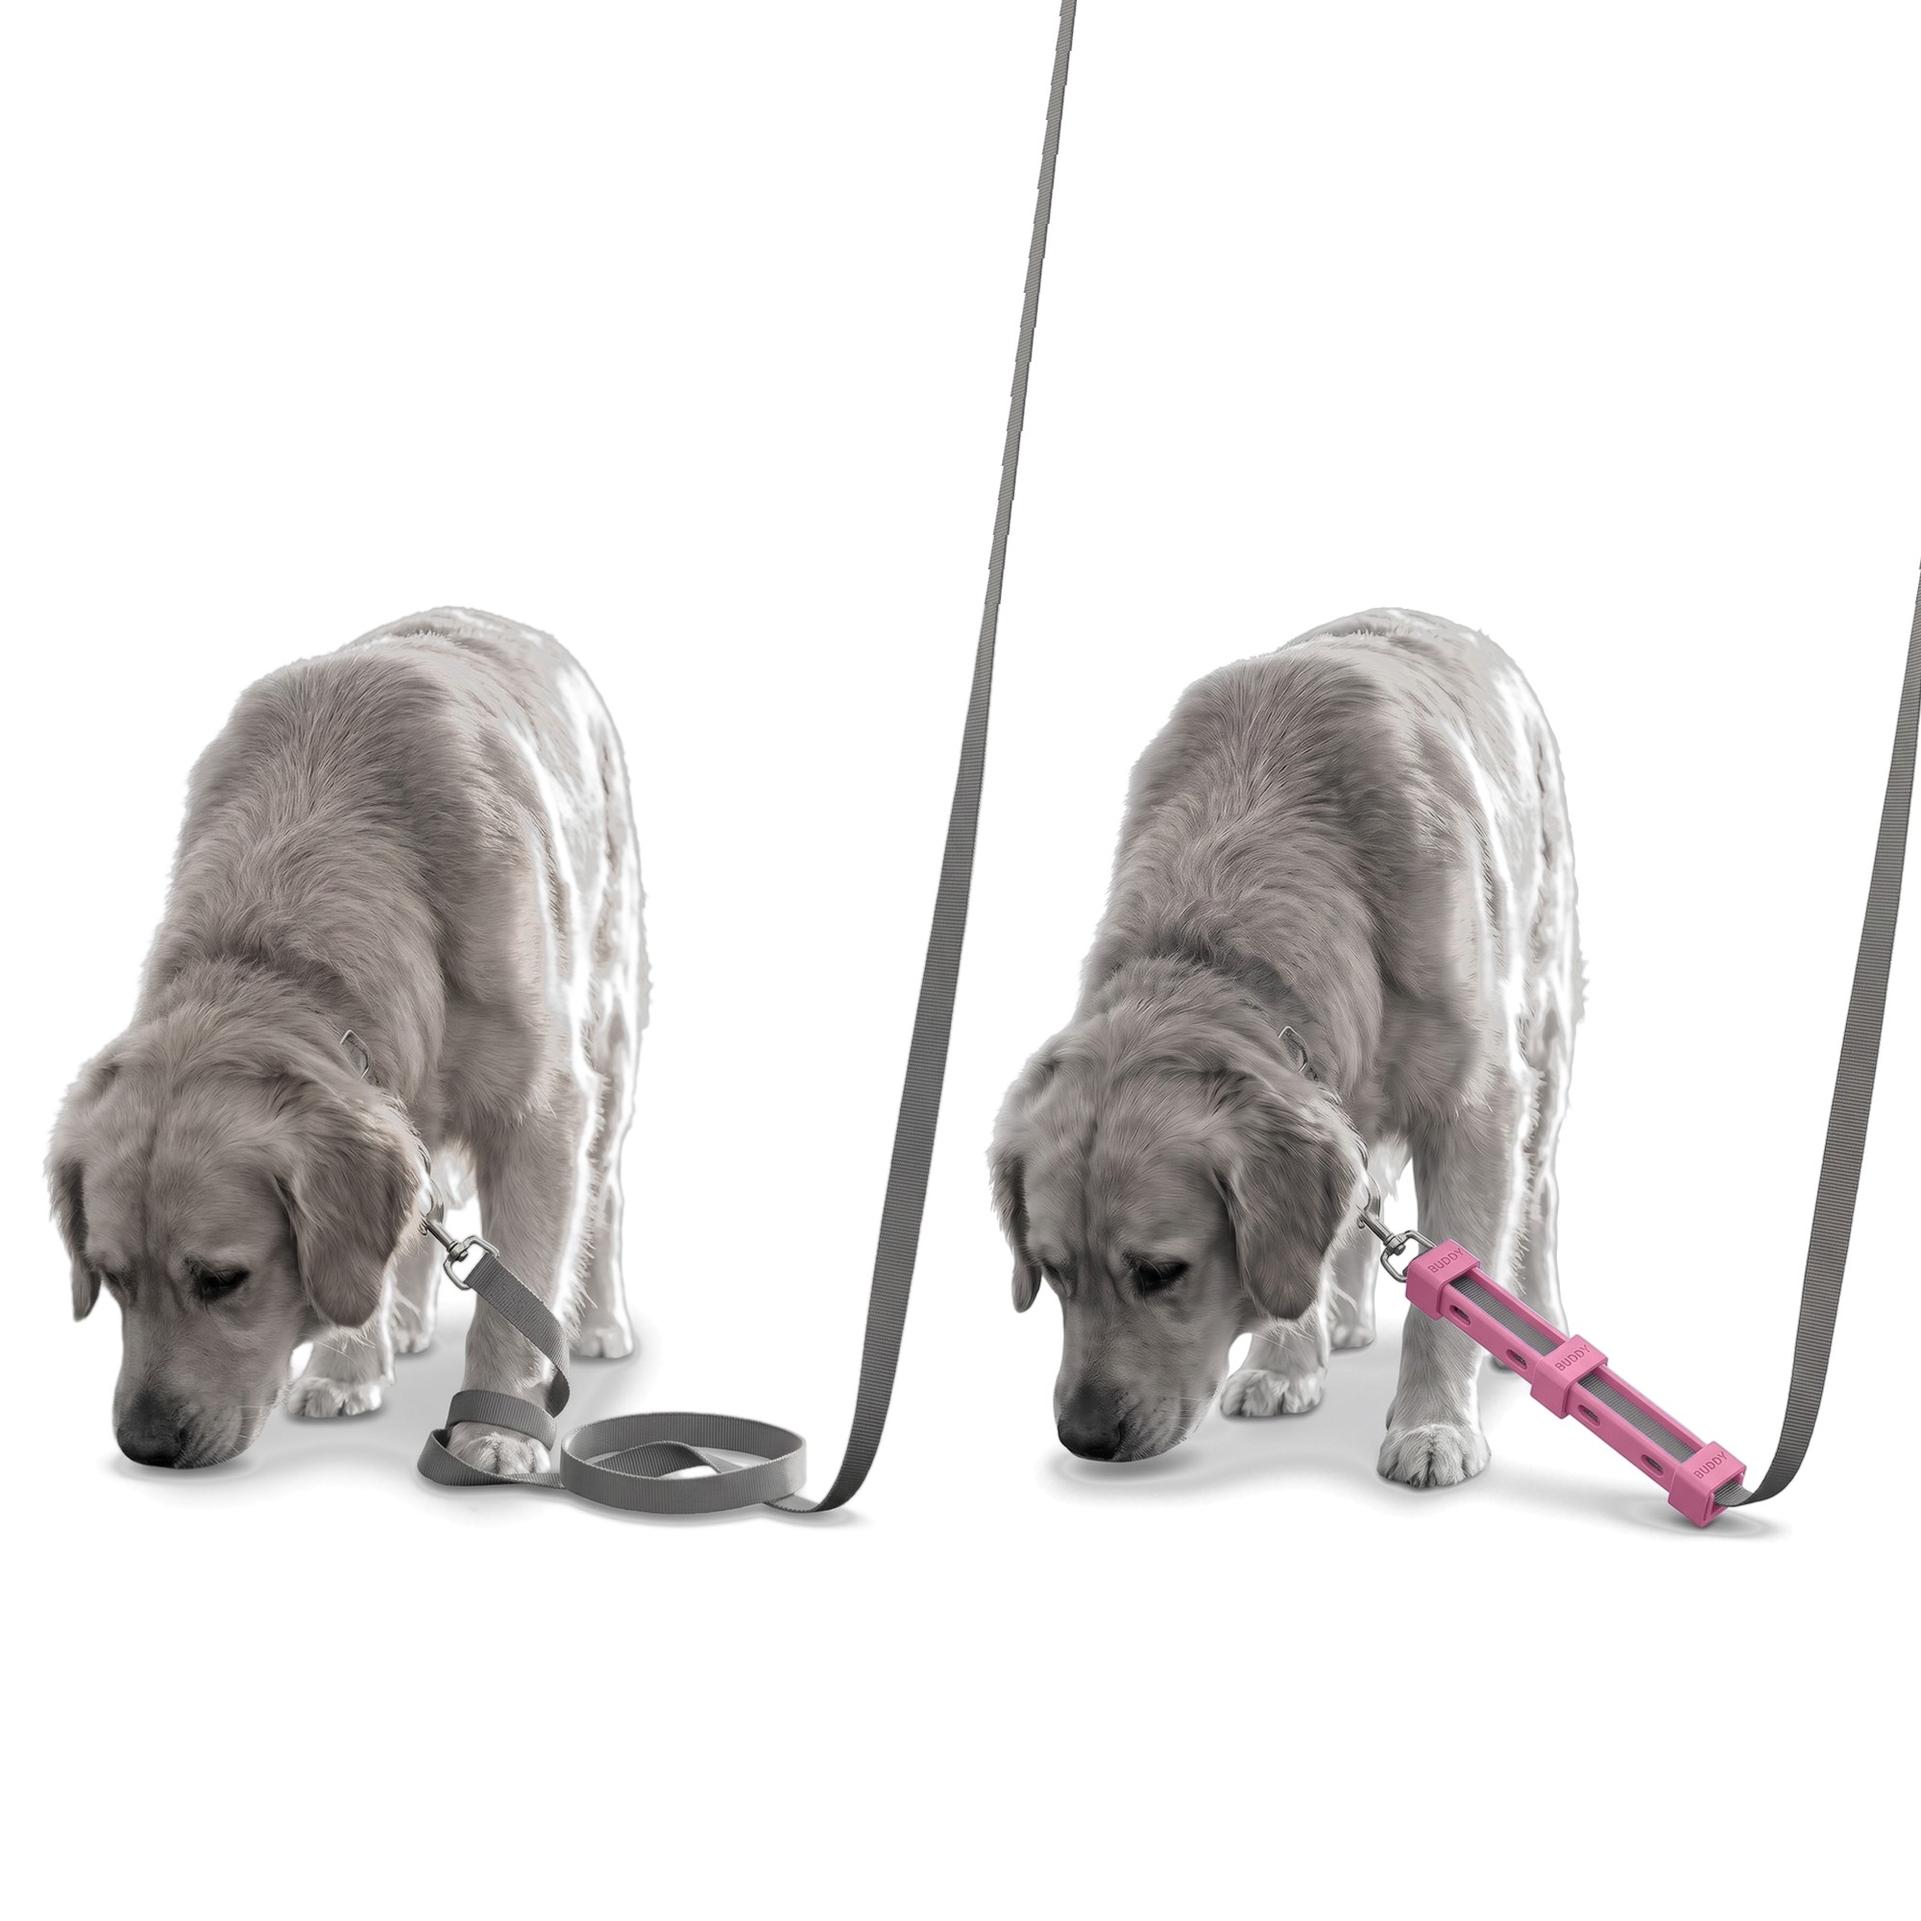
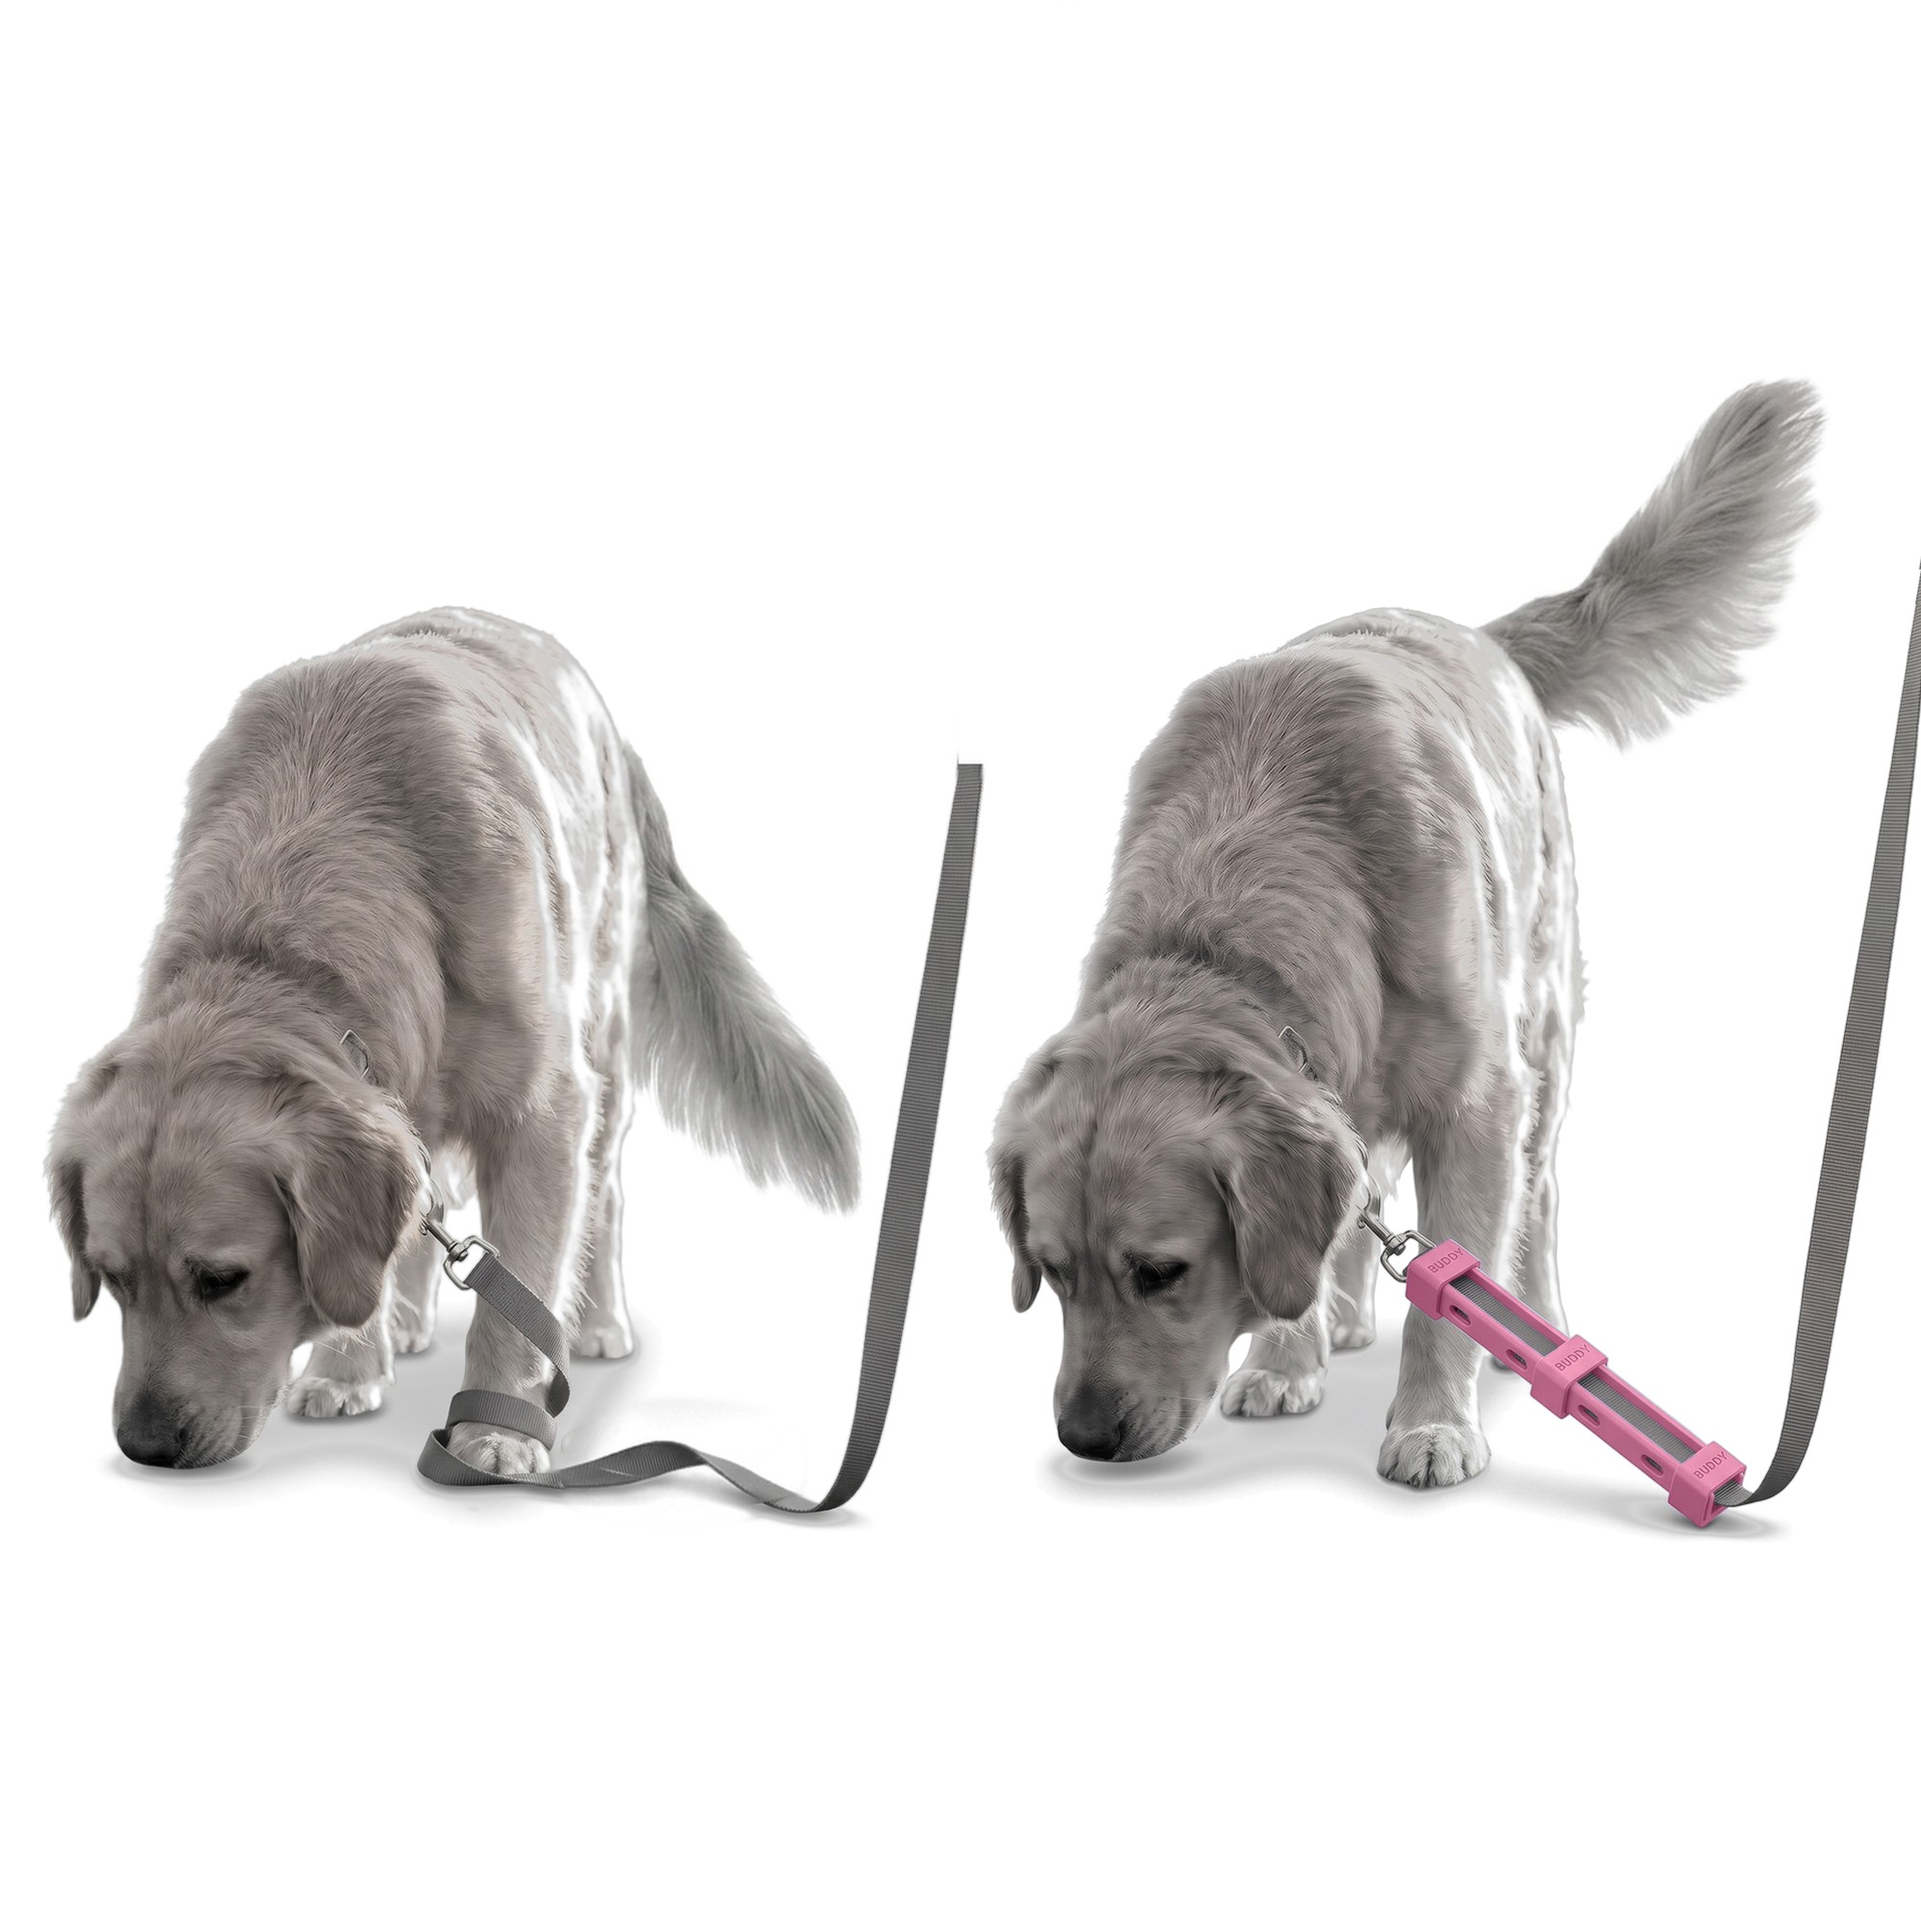
No-Trip MAINs: sad tail before, happy tail after, short leash cut at the centre
- BEFORE dog: tail hangs low, leash is a short slack across the paws (no big
  floor loop) and stops at the centre line instead of running off the top.
- AFTER dog: tail raised mid-wag. Sleeve pixels untouched in every colour.
- One approved Gemini 2.1 edit per size, registered onto ba_main.py's own
  output and stored as patches/ba-main-<size>-tails.png; ba_main.py lays it
  over each composed MAIN, so rebuilds keep it. All 22 colour MAINs + KP-NT.MAIN
  regenerated (Large White keeps its product-only shot).

diff --git a/tools/notrip-v51/ba_main.py b/tools/notrip-v51/ba_main.py
@@ -6,6 +6,14 @@ white 2000 x 2000 canvas, no text: the coloured sleeve is the only colour, so th
 left-to-right as problem -> fix without labels. Same inset-on-white recipe the Shirt Tucker
 composite MAIN cleared Amazon with.
 
+Tails and leash (owner, 2026-11-06): the composed picture then gets patches/ba-main-<size>-tails.png
+laid over it - the BEFORE dog's tail hangs low (sad), the AFTER dog's is raised mid-wag (happy),
+the BEFORE leash is a short slack across the paws instead of the big floor loop, and it is cut at
+the centre line rather than running off the top. Each patch is one approved Gemini 2.1 edit
+registered onto this script's own output, so it only lines up while compose() stays as it is: if
+you change the layout, remake the patch. Its alpha never covers a sleeve pixel, so every colour
+keeps the sleeve exactly as recolour_main.py made it.
+
     py -3 tools/notrip-v51/ba_main.py <standard|large>   -> build/ba-main-<size>-<colour>.png (all 11)
 """
 import pathlib
@@ -50,7 +58,17 @@ def main():
             ref = Image.open(REPO / 'tools' / 'notrip-amazon' / 'in-use' / f'main-in-use-{size}-blue.jpg')
             after = ground_tip(after, ref)
         after = lift(after)
-        compose(before, after, HERE / 'build' / f'ba-main-{size}-{colour}.png')
+        out = HERE / 'build' / f'ba-main-{size}-{colour}.png'
+        compose(before, after, out)
+        tails(out, size)
+
+
+def tails(out, size):
+    """Lay the sad/happy tail + short-leash patch over a composed MAIN (see the docstring)."""
+    patch = Image.open(HERE / 'patches' / f'ba-main-{size}-tails.png').convert('RGBA')
+    im = Image.open(out).convert('RGBA')
+    assert im.size == patch.size, f'{out.name}: patch is {patch.size}, picture {im.size} - remake the patch'
+    Image.alpha_composite(im, patch).convert('RGB').save(out)
 
 
 COLOURS = 'black white grey red orange yellow green teal blue purple pink'.split()
